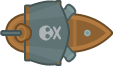
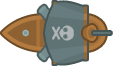
troca lado do navio

diff --git a/invasaoAoRio/src/invasaoAoRio/View/Janela/JanelaPadrao.java b/invasaoAoRio/src/invasaoAoRio/View/Janela/JanelaPadrao.java
@@ -204,7 +204,7 @@ public class JanelaPadrao extends JFrame implements IJanelaPadrao {
 	@Override
 	public void addBarco(Imagem barcoGerado) {
 		contentPane.add(barcoGerado);
-		barcoGerado.setBounds(1408-120, barcoGerado.getL()*100 + 112, 100, 65);
+		barcoGerado.setBounds(1408-120, barcoGerado.getL()*100 + 112, 113, 65);
         navios.add(barcoGerado);
         contentPane.setComponentZOrder(barcoGerado, 1);
         SwingUtilities.updateComponentTreeUI(this);
